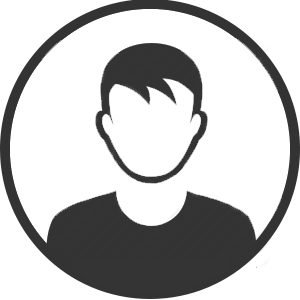
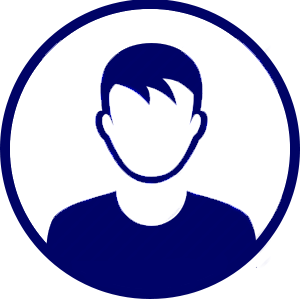
Validations And Styling

diff --git a/src/app/members/child/vaccine/fill/fill.page.html b/src/app/members/child/vaccine/fill/fill.page.html
@@ -11,17 +11,55 @@
 
   <form [formGroup]="fg">
     <ion-item>
-      <ion-label color="primary" position="floating">weight</ion-label>
-      <ion-input type="number" placeholder="Weight" formControlName="Weight"></ion-input>
+      <ion-label color="primary" position="floating">Weight</ion-label>
+      <ion-input type="text" placeholder="Weight" formControlName="Weight"></ion-input>
+      <ion-text color="danger" *ngIf="fg.get('Weight').invalid && (fg.get('Weight').dirty || fg.get('Weight').touched || fg.get('Weight').submitted)" style="font-size: 13px; position: absolute; right: 0; top: 50%; transform: translateY(-50%);">
+        <ng-container *ngIf="fg.get('Weight').errors.required">
+          Weight is required
+        </ng-container>
+        <ng-container *ngIf="fg.get('Weight').errors.pattern">
+          Only numbers are allowed for Weight
+        </ng-container>
+      </ion-text>
+      <ion-text color="success" *ngIf="fg.get('Weight').valid && (fg.get('Weight').dirty || fg.get('Weight').touched || fg.get('Weight').submitted)" style="font-size: 13px; position: absolute; right: 0; top: 50%; transform: translateY(-50%);">
+        Perfect
+      </ion-text>
     </ion-item>
+    
     <ion-item>
       <ion-label color="primary" position="floating">Height</ion-label>
-      <ion-input type="number" placeholder="Height" formControlName="Height"></ion-input>
+      <ion-input type="text" placeholder="Height" formControlName="Height"></ion-input>
+      <ion-text color="danger" *ngIf="fg.get('Height').invalid && (fg.get('Height').dirty || fg.get('Height').touched || fg.get('Height').submitted)" style="font-size: 13px; position: absolute; right: 0; top: 50%; transform: translateY(-50%);">
+        <ng-container *ngIf="fg.get('Height').errors.required">
+          Height is required
+        </ng-container>
+        <ng-container *ngIf="fg.get('Height').errors.pattern">
+          Only numbers are allowed for Height
+        </ng-container>
+      </ion-text>
+      <ion-text color="success" *ngIf="fg.get('Height').valid && (fg.get('Height').dirty || fg.get('Height').touched || fg.get('Height').submitted)" style="font-size: 13px; position: absolute; right: 0; top: 50%; transform: translateY(-50%);">
+        Perfect
+      </ion-text>
     </ion-item>
+    
     <ion-item>
       <ion-label color="primary" position="floating">OFC</ion-label>
-      <ion-input type="number" placeholder="OFC" formControlName="Circle"></ion-input>
+      <ion-input type="text" placeholder="OFC" formControlName="Circle"></ion-input>
+      <ion-text color="danger" *ngIf="fg.get('Circle').invalid && (fg.get('Circle').dirty || fg.get('Circle').touched || fg.get('Circle').submitted)" style="font-size: 13px; position: absolute; right: 0; top: 50%; transform: translateY(-50%);">
+        <ng-container *ngIf="fg.get('Circle').errors.required">
+          OFC is required
+        </ng-container>
+        <ng-container *ngIf="fg.get('Circle').errors.pattern">
+          Only numbers are allowed for OFC
+        </ng-container>
+      </ion-text>
+      <ion-text color="success" *ngIf="fg.get('Circle').valid && (fg.get('Circle').dirty || fg.get('Circle').touched || fg.get('Circle').submitted)" style="font-size: 13px; position: absolute; right: 0; top: 50%; transform: translateY(-50%);">
+        Perfect
+      </ion-text>
     </ion-item>
+    
+      
+    
     
     <!-- <ion-item>
       <ion-label color="primary" position="floating">Disease</ion-label>
@@ -40,13 +78,14 @@
         min="{{birthYear}}" max="{{todaydate}}"></ion-datetime>
     </ion-item>
 
+    
     <ion-item *ngIf="!fg.value.IsDisease">
       <ion-label color="primary">Brands</ion-label>
-      <ion-select formControlName="BrandId">
-        <ion-select-option *ngFor="let user of brandName" [value]="user.Id">{{user.Name}}</ion-select-option>
+      <ion-select (ionChange)="updateBrand($event.detail.value)" [interfaceOptions]="selectInterfaceOptions">
+        <ion-select-option *ngFor="let user of brandName" [value]="user.Id">{{ user.Name }}</ion-select-option>
       </ion-select>
     </ion-item>
-
+    
     <ion-item>
       <ion-label>Schedule Date</ion-label>
       <ion-datetime disabled displayFormat="DD-MM-YYYY" value="{{Date}}"></ion-datetime>

diff --git a/src/app/members/child/vaccine/fill/fill.page.ts b/src/app/members/child/vaccine/fill/fill.page.ts
@@ -4,7 +4,7 @@ import { VaccineService } from 'src/app/services/vaccine.service';
 import { ToastService } from 'src/app/shared/toast.service';
 import { LoadingController } from '@ionic/angular';
 import * as moment from 'moment';
-import { FormGroup, FormBuilder } from '@angular/forms';
+import { FormGroup, FormBuilder, Validators, FormControl } from '@angular/forms';
 import { Storage } from '@ionic/storage';
 import { environment } from 'src/environments/environment';
 
@@ -32,6 +32,7 @@ export class FillPage implements OnInit {
 
   fgAddData: FormGroup;
 
+  
   constructor(
     public loadingController: LoadingController,
     private formBuilder: FormBuilder,
@@ -45,6 +46,7 @@ export class FillPage implements OnInit {
 
   }
 
+  
 
   ngOnInit() {
     this.storage.get(environment.DOCTOR_Id).then((val) => {
@@ -62,9 +64,9 @@ export class FillPage implements OnInit {
       'DoctorId': [''],
       'Id': [null],
       'IsDone': [null],
-      'Weight': [null],
-      'Height': [null],
-      'Circle': [null],
+      Weight: new FormControl('', [Validators.required, Validators.pattern('^[0-9]*$')]),
+      Height: new FormControl('', [Validators.required, Validators.pattern('^[0-9]*$')]),
+      Circle: new FormControl('', [Validators.required, Validators.pattern('^[0-9]*$')]),
       'BrandId': [null],
       'GivenDate': [null],
       'IsDisease': [false],
@@ -225,7 +227,8 @@ export class FillPage implements OnInit {
   }
 
   isBrandFilled(): boolean{
-    return this.fg.get('BrandId').value !== null;
+    return this.fg.get('BrandId').value !== null; 
   }
+  
 
 }

diff --git a/src/app/members/child/child.page.scss b/src/app/members/child/child.page.scss
@@ -1,7 +1,6 @@
 ion-content{
     // --background: #fff url('../../../assets/signup.jpg') no-repeat center center / cover;
     --background: radial-gradient(circle at top, #738abf , #9ebbff)
-
 }
 
 .girl {
@@ -18,7 +17,7 @@ ion-content{
 
 .custom-item-background {
     --background: rgba(0, 0, 0, 0.155); /* Replace 'your-color' with the desired background color */
-    border-radius: 2px;
+    border-radius: 7px;
     color: #fff;
 }
 
@@ -33,3 +32,17 @@ ion-content{
     border-radius: 2px;
     color: #fff;
 }
+
+.gender-image {
+    width: 100px; /* Adjust width as needed */
+    height: auto; /* Maintain aspect ratio */
+  }
+  
+  .gender-image path {
+    fill: blue; /* Default color for male */
+  }
+  
+  .gender-image.girl path {
+    fill: pink; /* Color for female */
+  }
+  

diff --git a/src/app/app.module.ts b/src/app/app.module.ts
@@ -20,6 +20,7 @@ import { NoopAnimationsModule } from '@angular/platform-browser/animations';
 import {MatDatepickerModule} from '@angular/material/datepicker';
 import {MatNativeDateModule} from '@angular/material';
 import {DateAdapter, MAT_DATE_FORMATS, MAT_DATE_LOCALE} from '@angular/material/core';
+import { ReactiveFormsModule } from '@angular/forms';
 //import {MatDatepickerModule} from '@angular/material/datepicker';
 // import { MatFormFieldModule , MatInputModule } from '@angular/material';
 //import { MatMomentDateModule } from "@angular/material-moment-adapter";
@@ -49,6 +50,7 @@ export const MY_FORMATS = {
     NoopAnimationsModule,
     MatDatepickerModule,
     MatNativeDateModule,
+    ReactiveFormsModule,
     // MatFormFieldModule,
     // MatInputModule
   ],

diff --git a/src/app/members/child/child.page.html b/src/app/members/child/child.page.html
@@ -30,7 +30,7 @@
   <ion-card *ngFor="let child of childs" [ngClass]="child.Gender=='Girl' ? 'girl' : 'boy'" class="custom-item-background">
   <ion-item class="custom-item-background2">
       <ion-thumbnail slot="start">
-        <ion-img [src]="child.Gender=='Girl' ? '../../assets/female.png' : '../../assets/male.png'"></ion-img>
+        <ion-img [src]="child.Gender=='Girl' ? '../../assets/female.png' : '../../assets/male.png'" class="{{child.Gender=='Girl' ? 'female-image' : 'male-image'}}"></ion-img>
       </ion-thumbnail>
       <ion-label>{{child.Name}}</ion-label>
   </ion-item>
